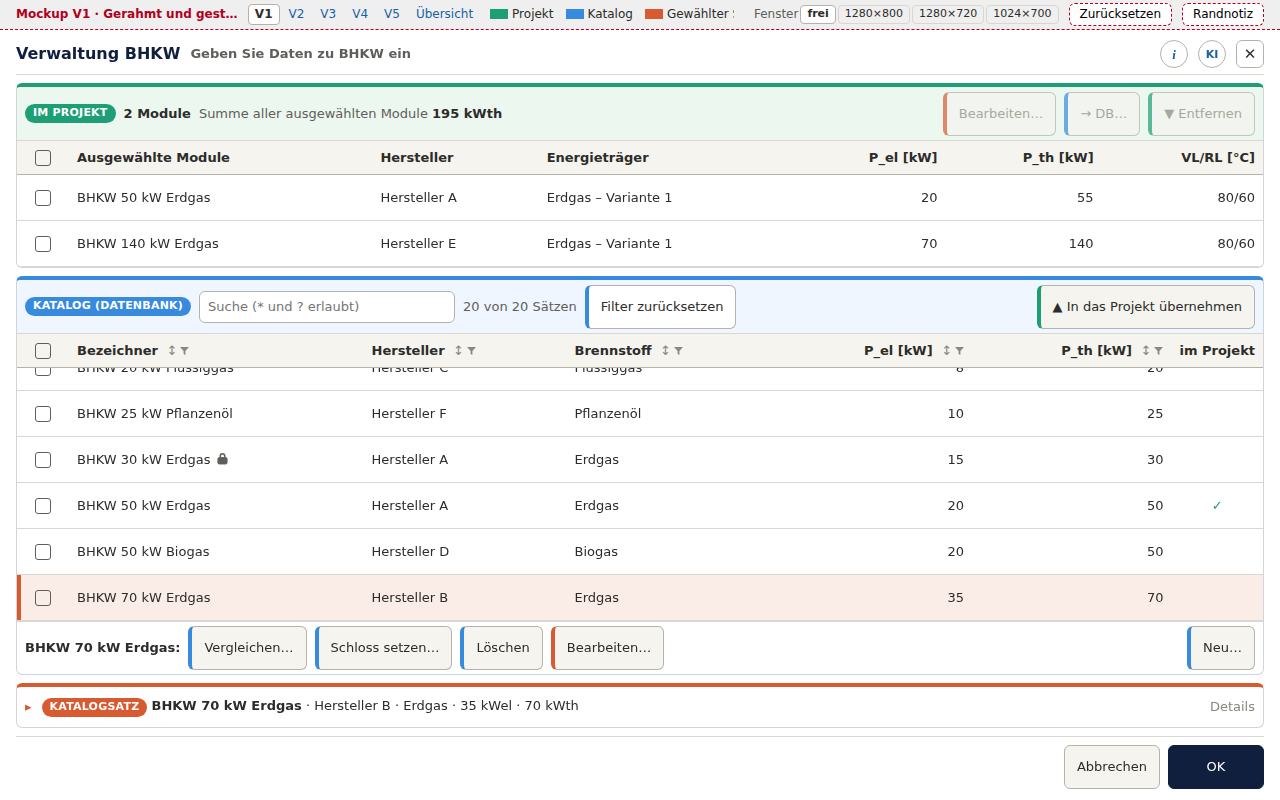
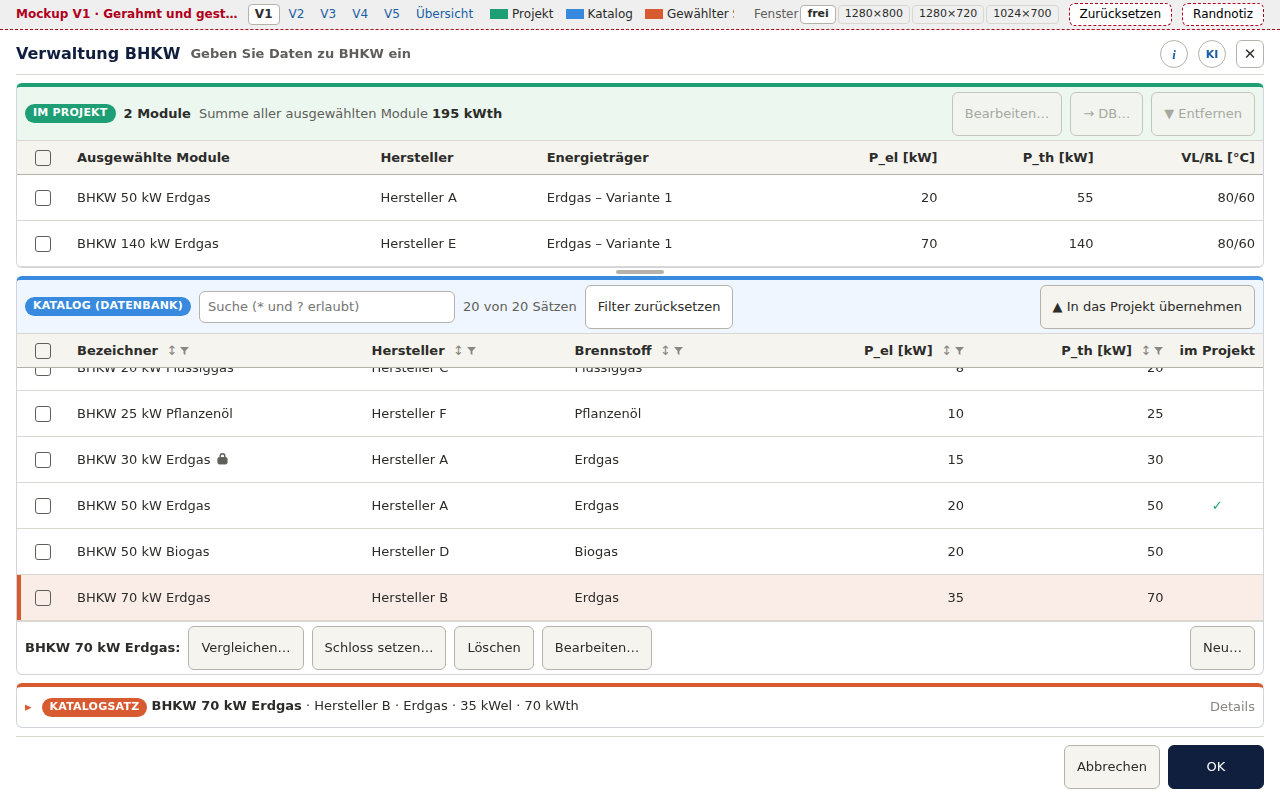
Mockup Katalogauswahl V1: ziehbare Trennlinie, Knöpfe ohne Farbstreifen
Trennlinie zwischen Projekt- und Katalogbereich (Maus, Pfeiltasten,
Pos1/Ende, Doppelklick = Vorgabe), Höhe je Dialog in localStorage mit
try/catch gemerkt; die Katalogliste behält Kopf und zwei Zeilen.
Knöpfe nur über die Stellung dem Bereich zugeordnet (KA-E-10).
Playwright: 48 Zustände in 1280x800, 1280x720, 1024x700, auch ohne
Ablage und nach Ziehen bis an die Grenzen — kein Rollbereich im
Rollbereich, Konsole fehlerfrei. Bilder V1 und V1_klein neu.

Claude-Session: https://claude.ai/code/session_01Mt7MsJGzcGr77yqBsxwpLj

diff --git a/Dokumentation/aktuell/Mockups/Projektdialog_Katalogauswahl_V1.html b/Dokumentation/aktuell/Mockups/Projektdialog_Katalogauswahl_V1.html
@@ -204,9 +204,19 @@ body.mk-nur-projekt .mk-chip { background: var(--mk-projekt); color: var(--epos-
 .mk-leiste--fuss { grid-column: 1 / -1; }
 
 /* ================= V1 gerahmt und gestapelt ================= */
-.v1-inhalt { display: grid; grid-template-rows: auto minmax(150px, 1fr) auto; gap: 8px; min-height: 0; }
-body.mk-details-offen .v1-inhalt { grid-template-rows: auto minmax(250px, 1.2fr) minmax(0, 1fr); }
+.v1-inhalt { display: grid; grid-template-rows: auto 8px minmax(150px, 1fr) auto; gap: 0; row-gap: 0; min-height: 0; }
+.v1-inhalt > .mk-bereich--satz { margin-top: 8px; }
+body.mk-details-offen .v1-inhalt { grid-template-rows: auto 8px minmax(250px, 1.2fr) minmax(120px, 1fr); }
 .mk-liste--projekt { flex: 0 1 auto; max-height: calc(34px + 2 * var(--mk-zeile) + 2px); }
+html.v1-hoehe .mk-liste--projekt { flex: 0 0 auto; max-height: none; height: var(--v1-projektliste); }
+/* Ziehbare Trennlinie zwischen Projekt- und Katalogbereich; die Höhe wird je Dialog gemerkt */
+.v1-trenner { position: relative; cursor: row-resize; touch-action: none; outline: none; }
+.v1-trenner::before { content: ""; position: absolute; left: 50%; top: 2px; width: 48px; height: 4px; margin-left: -24px;
+    border-radius: 2px; background: var(--epos-rahmen); }
+.v1-trenner:hover::before, .v1-trenner:focus-visible::before, body.v1-zieht .v1-trenner::before { background: var(--mk-projekt); }
+body.v1-zieht { cursor: row-resize; user-select: none; }
+/* Entscheid KA-E-10: Knöpfe gehören über ihre Stellung zum Bereich, ohne Farbstreifen */
+.epos-dialog .epos-knopf.k-proj, .epos-dialog .epos-knopf.k-kat, .epos-dialog .epos-knopf.k-satz { border-left: 1px solid var(--epos-rahmen); }
 .v1-satz .v1-zeile { display: flex; align-items: center; gap: 10px; min-height: 40px; border-left: 0; }
 .v1-details { display: none; border-top: 1px solid var(--epos-rahmen-leise); }
 body.mk-details-offen .v1-details { display: block; }
@@ -398,6 +408,8 @@ input.mk-feldwert[readonly] { background: var(--epos-flaeche); border-color: var
       <button class="epos-knopf k-proj" data-aktion="entfernen" title="Aus dem Projekt entfernen">▼ Entfernen</button></div>
     <div class="mk-liste mk-liste--projekt" tabindex="0" data-art="projekt" aria-label="Projektliste"><table class="mk-tabelle mk-tabelle--projekt"><thead><tr><th class="mk-wahl"><span class="mk-kaestchen" data-markieren="alle-projekt" title="alle wählen"></span></th><th>Ausgewählte Module</th><th>Hersteller</th><th>Energieträger</th><th class="mk-zahl">P_el [kW]</th><th class="mk-zahl">P_th [kW]</th><th class="mk-zahl">VL/RL [°C]</th></tr></thead><tbody data-liste="projekt"></tbody></table></div>
   </section>
+  <div class="v1-trenner" role="separator" aria-orientation="horizontal" tabindex="0"
+       aria-label="Höhe zwischen Projekt und Katalog (ziehen oder Pfeiltasten)" title="Ziehen: Höhe zwischen Projekt und Katalog; Doppelklick: Vorgabe"></div>
   <section class="mk-bereich mk-bereich--katalog" aria-label="Katalog (Datenbank)">
     <div class="mk-leiste mk-bereichskopf"><span class="mk-marke mk-marke--katalog">Katalog (Datenbank)</span><label class="mk-suche" style="width:16rem"><input type="search" data-suche placeholder="Suche (* und ? erlaubt)" aria-label="Katalog durchsuchen"></label><span class="mk-zaehler" data-bind="zaehler"></span><button class="epos-knopf mk-leise k-kat" data-aktion="filter-zuruecksetzen">Filter zurücksetzen</button><span class="mk-fueller"></span>
       <button class="epos-knopf k-proj" data-aktion="uebernehmen">▲ In das Projekt übernehmen</button></div>
@@ -1224,6 +1236,73 @@ if (/schublade/.test(location.hash)) document.body.classList.add('mk-schublade-o
 if (/details/.test(location.hash)) document.body.classList.add('mk-details-offen');
 setTimeout(function () { zeigeZeile('katalog', S.wahlK); }, 0);
 window.mkSpiel = { zustand: function () { return S; }, zeichne: function () { zeichne(); } };
+})();
+</script>
+<script>
+/* Nur V1: ziehbare Trennlinie zwischen Projekt- und Katalogbereich. Gezogen wird die
+   Höhe der Projektliste; die Katalogliste behält mindestens Kopfzeile und zwei
+   Zeilen, auch mit aufgeklappter Detailzeile. Gemerkt je Dialog in localStorage — in der
+   Anwendung über Dienste.Einstellungen. Ohne Ablage gilt die Vorgabe. */
+(function () {
+  var SCHLUESSEL = 'mk-katalogauswahl-v1-trenner-bhkw';
+  var wurzel = document.documentElement;
+  var inhalt = document.querySelector('.v1-inhalt');
+  var trenner = document.querySelector('.v1-trenner');
+  var liste = document.querySelector('.mk-liste--projekt');
+  if (!inhalt || !trenner || !liste) return;
+  var ZEILE = 46, KOPF = 34;
+  function minProjekt() { return KOPF + ZEILE + 2; }
+  /* Die Katalogliste behält Kopfzeile und zwei Zeilen; was sie darüber hat, kann die Projektliste nehmen. */
+  var katListe = document.querySelector('.mk-liste[data-art=katalog]');
+  function katSpielraum() { return Math.max(0, katListe.getBoundingClientRect().height - (KOPF + 2 * ZEILE)); }
+  function setze(px, merken) {
+    if (px == null) { wurzel.style.removeProperty('--v1-projektliste'); wurzel.classList.remove('v1-hoehe'); }
+    else { wurzel.style.setProperty('--v1-projektliste', Math.round(px) + 'px'); wurzel.classList.add('v1-hoehe'); }
+    if (merken) {
+      try { if (px == null) localStorage.removeItem(SCHLUESSEL); else localStorage.setItem(SCHLUESSEL, String(Math.round(px))); }
+      catch (e) { /* ohne Ablage */ }
+    }
+    trenner.setAttribute('aria-valuenow', String(Math.round(liste.getBoundingClientRect().height)));
+  }
+  function maxProjekt() { return liste.getBoundingClientRect().height + katSpielraum(); }
+  function klemme() {
+    var inhaltUeber = Math.max(inhalt.scrollHeight - inhalt.clientHeight,
+      wurzel.classList.contains('v1-hoehe') ? (KOPF + 2 * ZEILE) - katListe.getBoundingClientRect().height : 0);
+    var h = liste.getBoundingClientRect().height;
+    if (inhaltUeber > 0) setze(Math.max(minProjekt(), h - inhaltUeber), false);
+    else setze(parseFloat(wurzel.style.getPropertyValue('--v1-projektliste')) || null, false);
+  }
+  var start = null;
+  trenner.addEventListener('pointerdown', function (e) {
+    start = { y: e.clientY, h: liste.getBoundingClientRect().height, max: liste.getBoundingClientRect().height + katSpielraum() };
+    trenner.setPointerCapture(e.pointerId); document.body.classList.add('v1-zieht'); e.preventDefault();
+  });
+  trenner.addEventListener('pointermove', function (e) {
+    if (!start) return;
+    setze(Math.max(minProjekt(), Math.min(start.max, start.h + e.clientY - start.y)), false);
+  });
+  function ende() {
+    if (!start) return; start = null; document.body.classList.remove('v1-zieht');
+    klemme(); setze(liste.getBoundingClientRect().height, true);
+  }
+  trenner.addEventListener('pointerup', ende);
+  trenner.addEventListener('pointercancel', ende);
+  trenner.addEventListener('dblclick', function () { setze(null, true); klemme(); });
+  trenner.addEventListener('keydown', function (e) {
+    var h = liste.getBoundingClientRect().height, max = h + katSpielraum();
+    var neu = null;
+    if (e.key === 'ArrowUp') neu = h - ZEILE; else if (e.key === 'ArrowDown') neu = h + ZEILE;
+    else if (e.key === 'Home') neu = minProjekt(); else if (e.key === 'End') neu = max;
+    if (neu == null) return;
+    e.preventDefault(); setze(Math.max(minProjekt(), Math.min(max, neu)), false); klemme(); setze(liste.getBoundingClientRect().height, true);
+  });
+  var gemerkt = null;
+  try { gemerkt = parseFloat(localStorage.getItem(SCHLUESSEL)); } catch (e) { /* ohne Ablage */ }
+  if (gemerkt > 0) setze(gemerkt, false);
+  if (window.ResizeObserver) new ResizeObserver(function () { klemme(); }).observe(inhalt);
+  document.addEventListener('click', function () { requestAnimationFrame(klemme); });
+  requestAnimationFrame(klemme);
+  window.mkTrenner = { setze: function (px) { setze(px, true); klemme(); }, klemme: klemme, max: maxProjekt };
 })();
 </script>
 </body>
